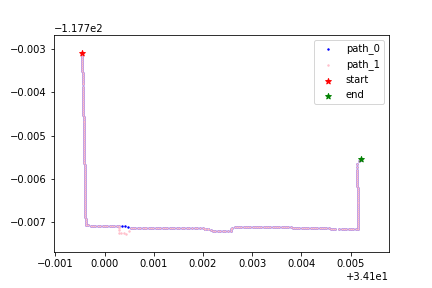
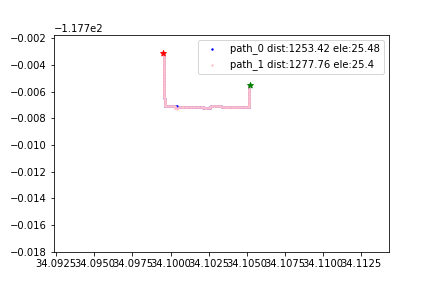
more eg

diff --git a/pathfindingat5cs.py b/pathfindingat5cs.py
@@ -120,10 +120,12 @@ def prune_list_open_close(g_list, neighbor, dom_heu):
     # Extract h1 from dom_heu
     dh1, dh2 = dom_heu
     # Go through each element in open_list, delete if dominated by dom_node
+    to_delete = []
     for i in range(len(g_list[neighbor])):
         h1, h2 = g_list[neighbor][i]
         if check_dominance((h1, h2), (dh1, dh2)):
-            del g_list[neighbor][i]
+            to_delete.append(i)
+    g_list[neighbor] = [i for i in g_list[neighbor] if i not in to_delete]
     # If all the things are deleted, add dom_heu to g_list[neighbor]:
     if len(g_list[neighbor]) == 0:
         g_list[neighbor].append(dom_heu)
@@ -277,9 +279,15 @@ def astar(dataframe, start, goal):
                         # iv. Go to step 2 (skipped)
 
                     # 3. Otherwise: go to step 2 (skipped)
+    # de-duplicate the COSTS list:
+    COSTS_new = []
+    for i in COSTS:
+        if i not in COSTS_new:
+            COSTS_new.append(i)
+    GOALN = GOALN[:len(COSTS_new)]
     # return set of solutions, else return error
     if len(GOALN) > 0:
-        all_paths = backtrack(GOALN, COSTS, G_close, best_costs, start)
+        all_paths = backtrack(GOALN, COSTS_new, G_close, best_costs, start)
         # Debug:
         # print(best_costs[2150])
         # print(G_close[2150])
@@ -287,7 +295,7 @@ def astar(dataframe, start, goal):
         for i in range(len(all_paths)):
             print("Path", i, "costs:", COSTS[i])
             print("Path", i, ":", all_paths[i])
-        return all_paths
+        return all_paths, COSTS
     else:
         print("No path found!")
         return None

diff --git a/utils.py b/utils.py
@@ -19,6 +19,9 @@ export_path = '../4-export/'
 lat_to_m = 111 * 1000
 lng_to_m = 111.3 * 1000
 
+# Colors
+colors = ['b', 'pink', 'y', 'purple']
+
 # david's api key
 apikey = "AIzaSyDk4njF9iZ4zYOYLm54eqExvEYaICH-Zes"
 
@@ -126,14 +129,14 @@ def find_neighbors(nodes, edges, y, x):
     return set([nodes[(nodes['y'] == y) & (nodes['x'] == x)].index.values[0] for y,x in starts] +\
                [nodes[(nodes['y'] == y) & (nodes['x'] == x)].index.values[0] for y,x in ends])
 
-def visualize_found_path(df, all_paths, scale_factor = 0.1):
+def visualize_found_path(df, all_paths, COSTS, scale_factor = 0.1):
     ''' Plot a found path by th astar algorithm '''
-    colors = ['b', 'pink', 'y']
     fig = plt.figure()
     for i in range(len(all_paths)):
         idx = all_paths[i]
         x,y = df.loc[idx, 'x'], df.loc[idx, 'y']
-        plt.scatter(x,y,c = colors[i], s = 2, label = 'path_'+str(i))
+        plt.scatter(x,y,c = colors[i], s = 2, label = 'path_'+str(i)+" dist:"+str(round(COSTS[i][0], 2))+" ele:"+str(round(COSTS[i][1], 2)))
+        x,y = df['x'], df['y']
         diff_x = max(x) - min(x)
         diff_y = max(y) - min(y)
         plt.xlim(min(x) - diff_x * scale_factor, max(x) + diff_x * scale_factor)
